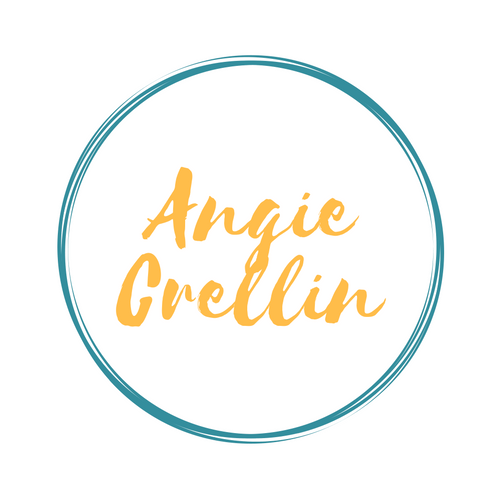
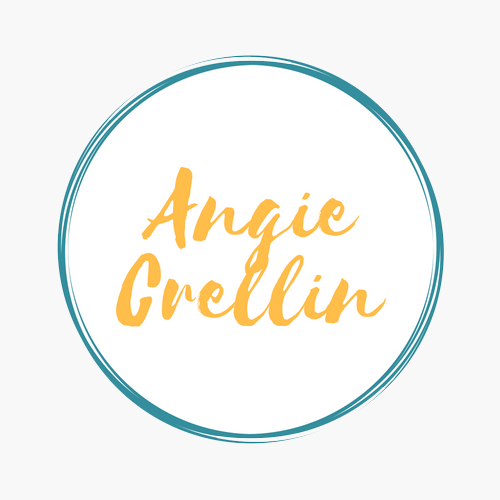
image updates

diff --git a/index.html b/index.html
@@ -24,7 +24,7 @@
                     <span class="icon-bar"></span>
                     <span class="icon-bar"></span>
                 </button>
-                <a href="#jumbotron"><img alt="Brand" id="brand" src="images/w.png" width="60" height="60px"></a>
+                <a href="#jumbotron"><img alt="Brand" id="brand" src="images/logo.png" width="60" height="60px"></a>
             </div>
             <div class="collapse navbar-collapse" id="bs-example-navbar-collapse-1">
                 <ul class="nav navbar-nav navbar-right">
